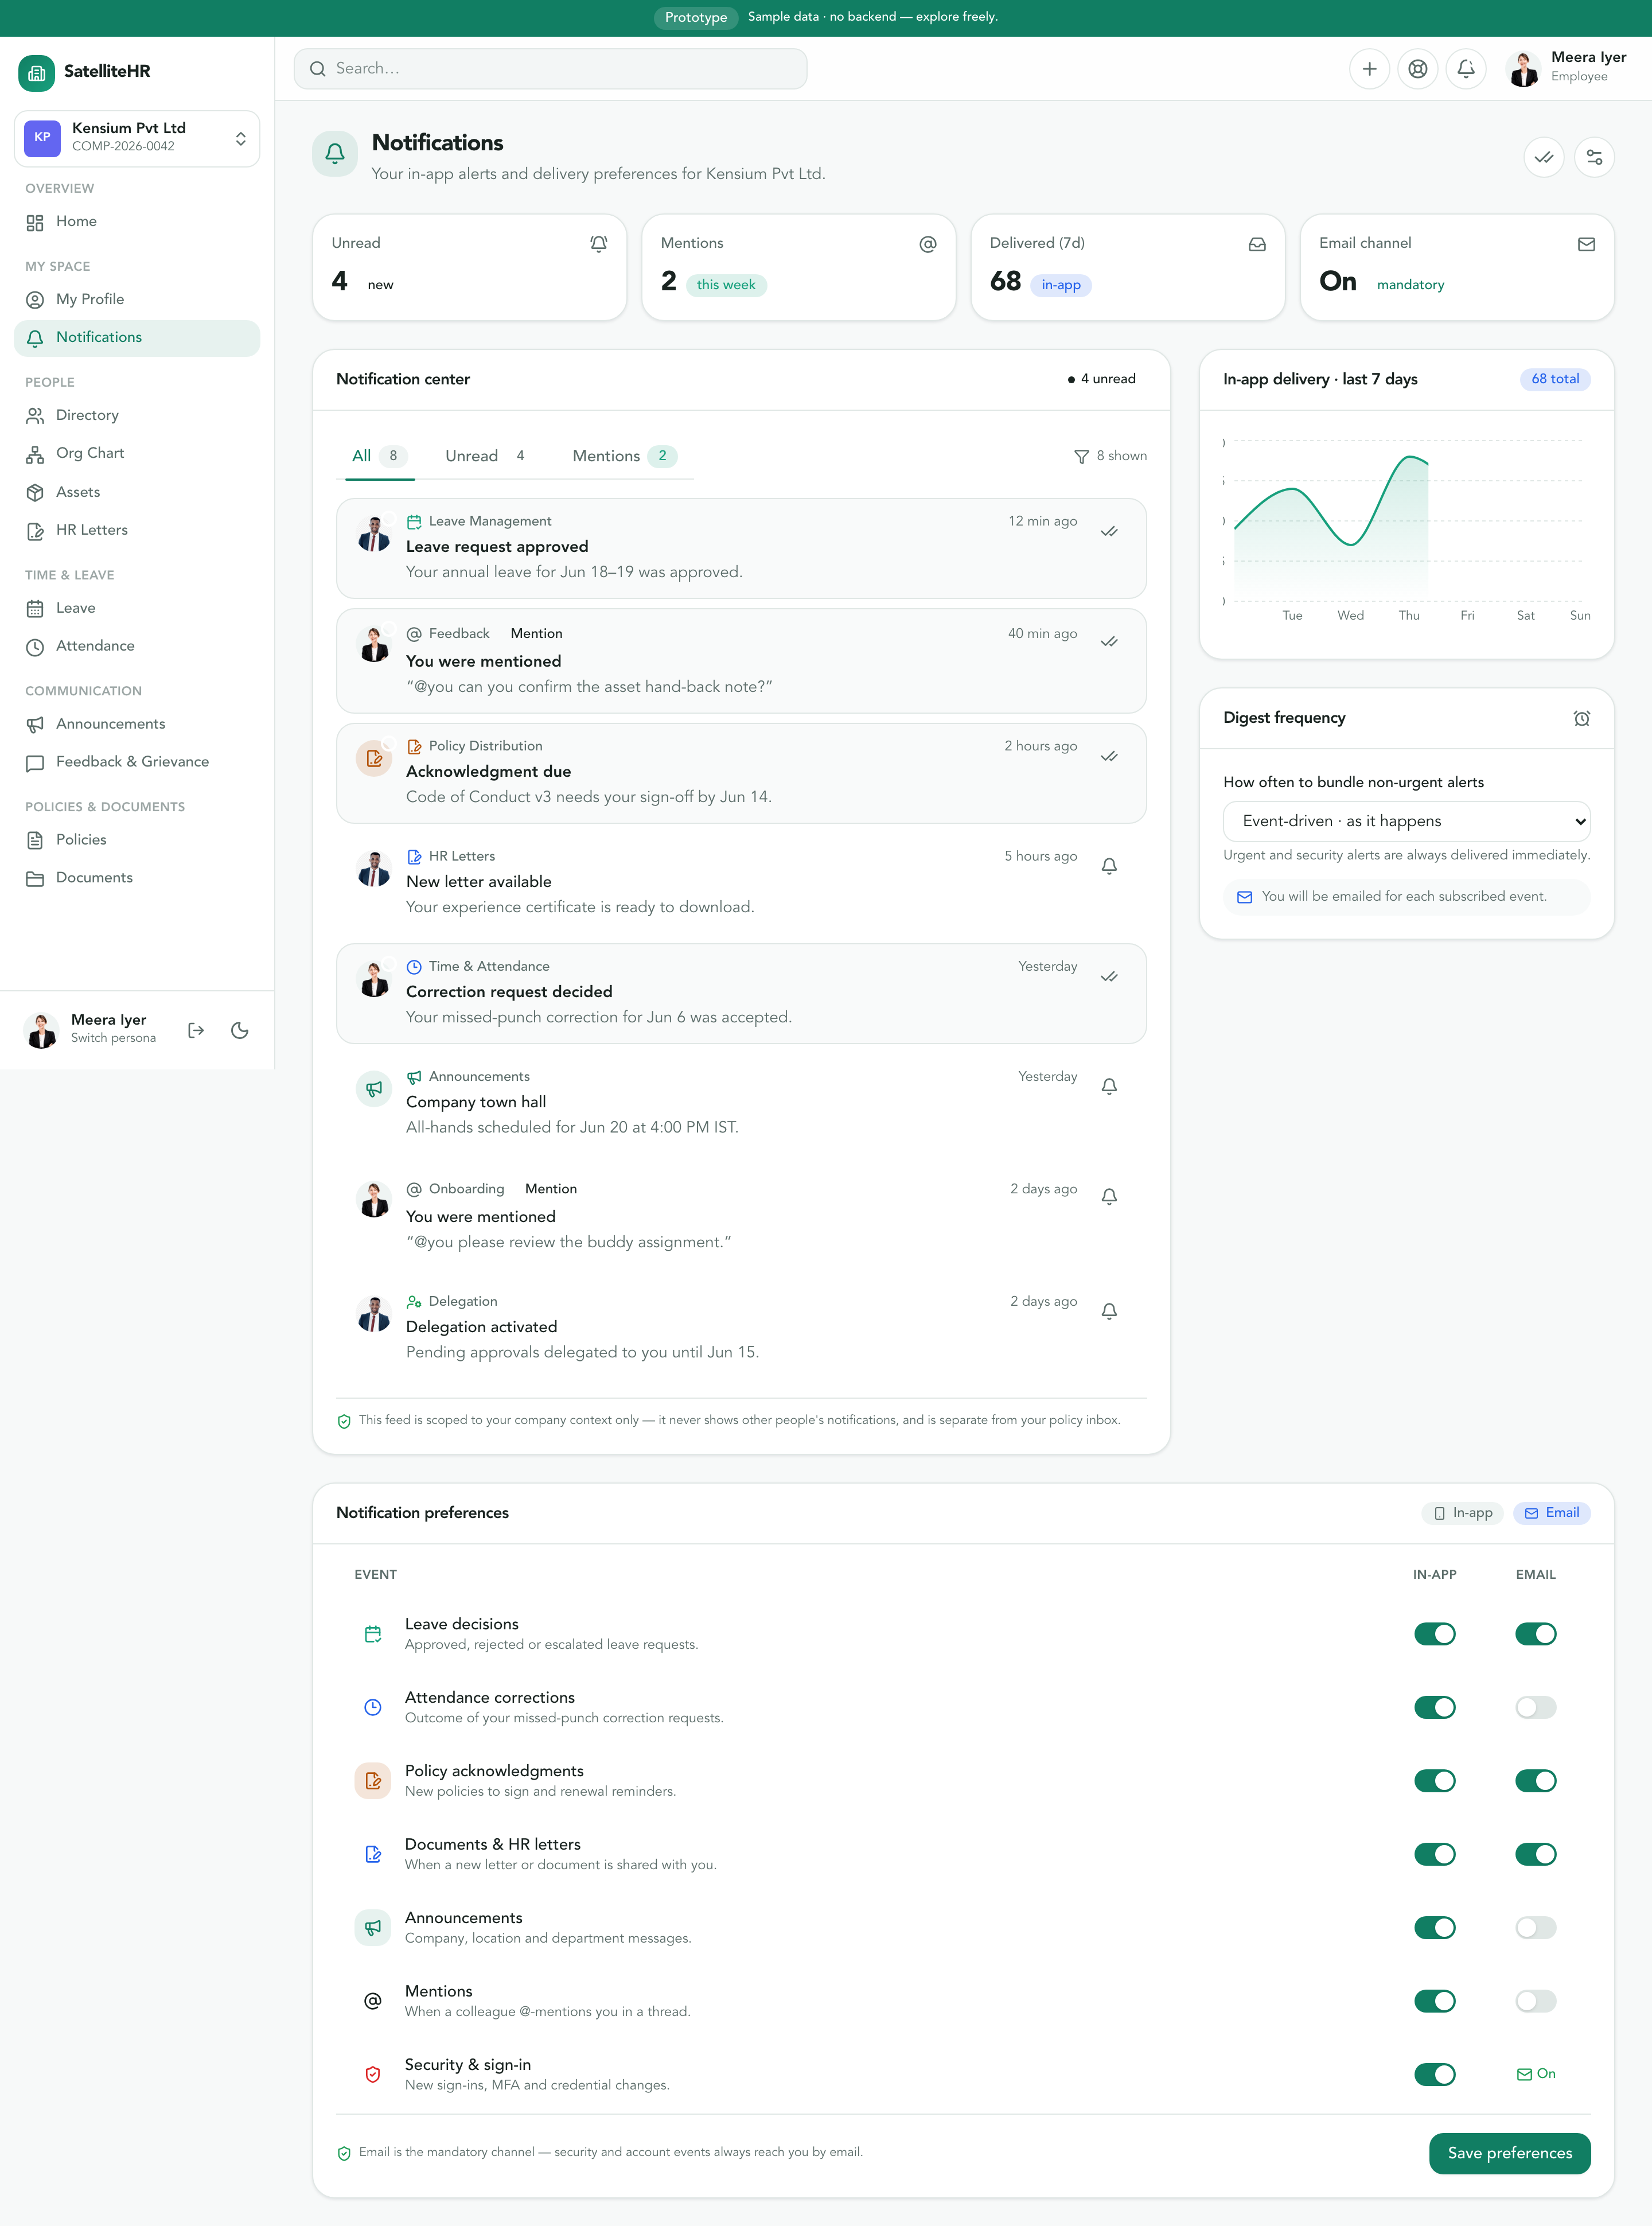
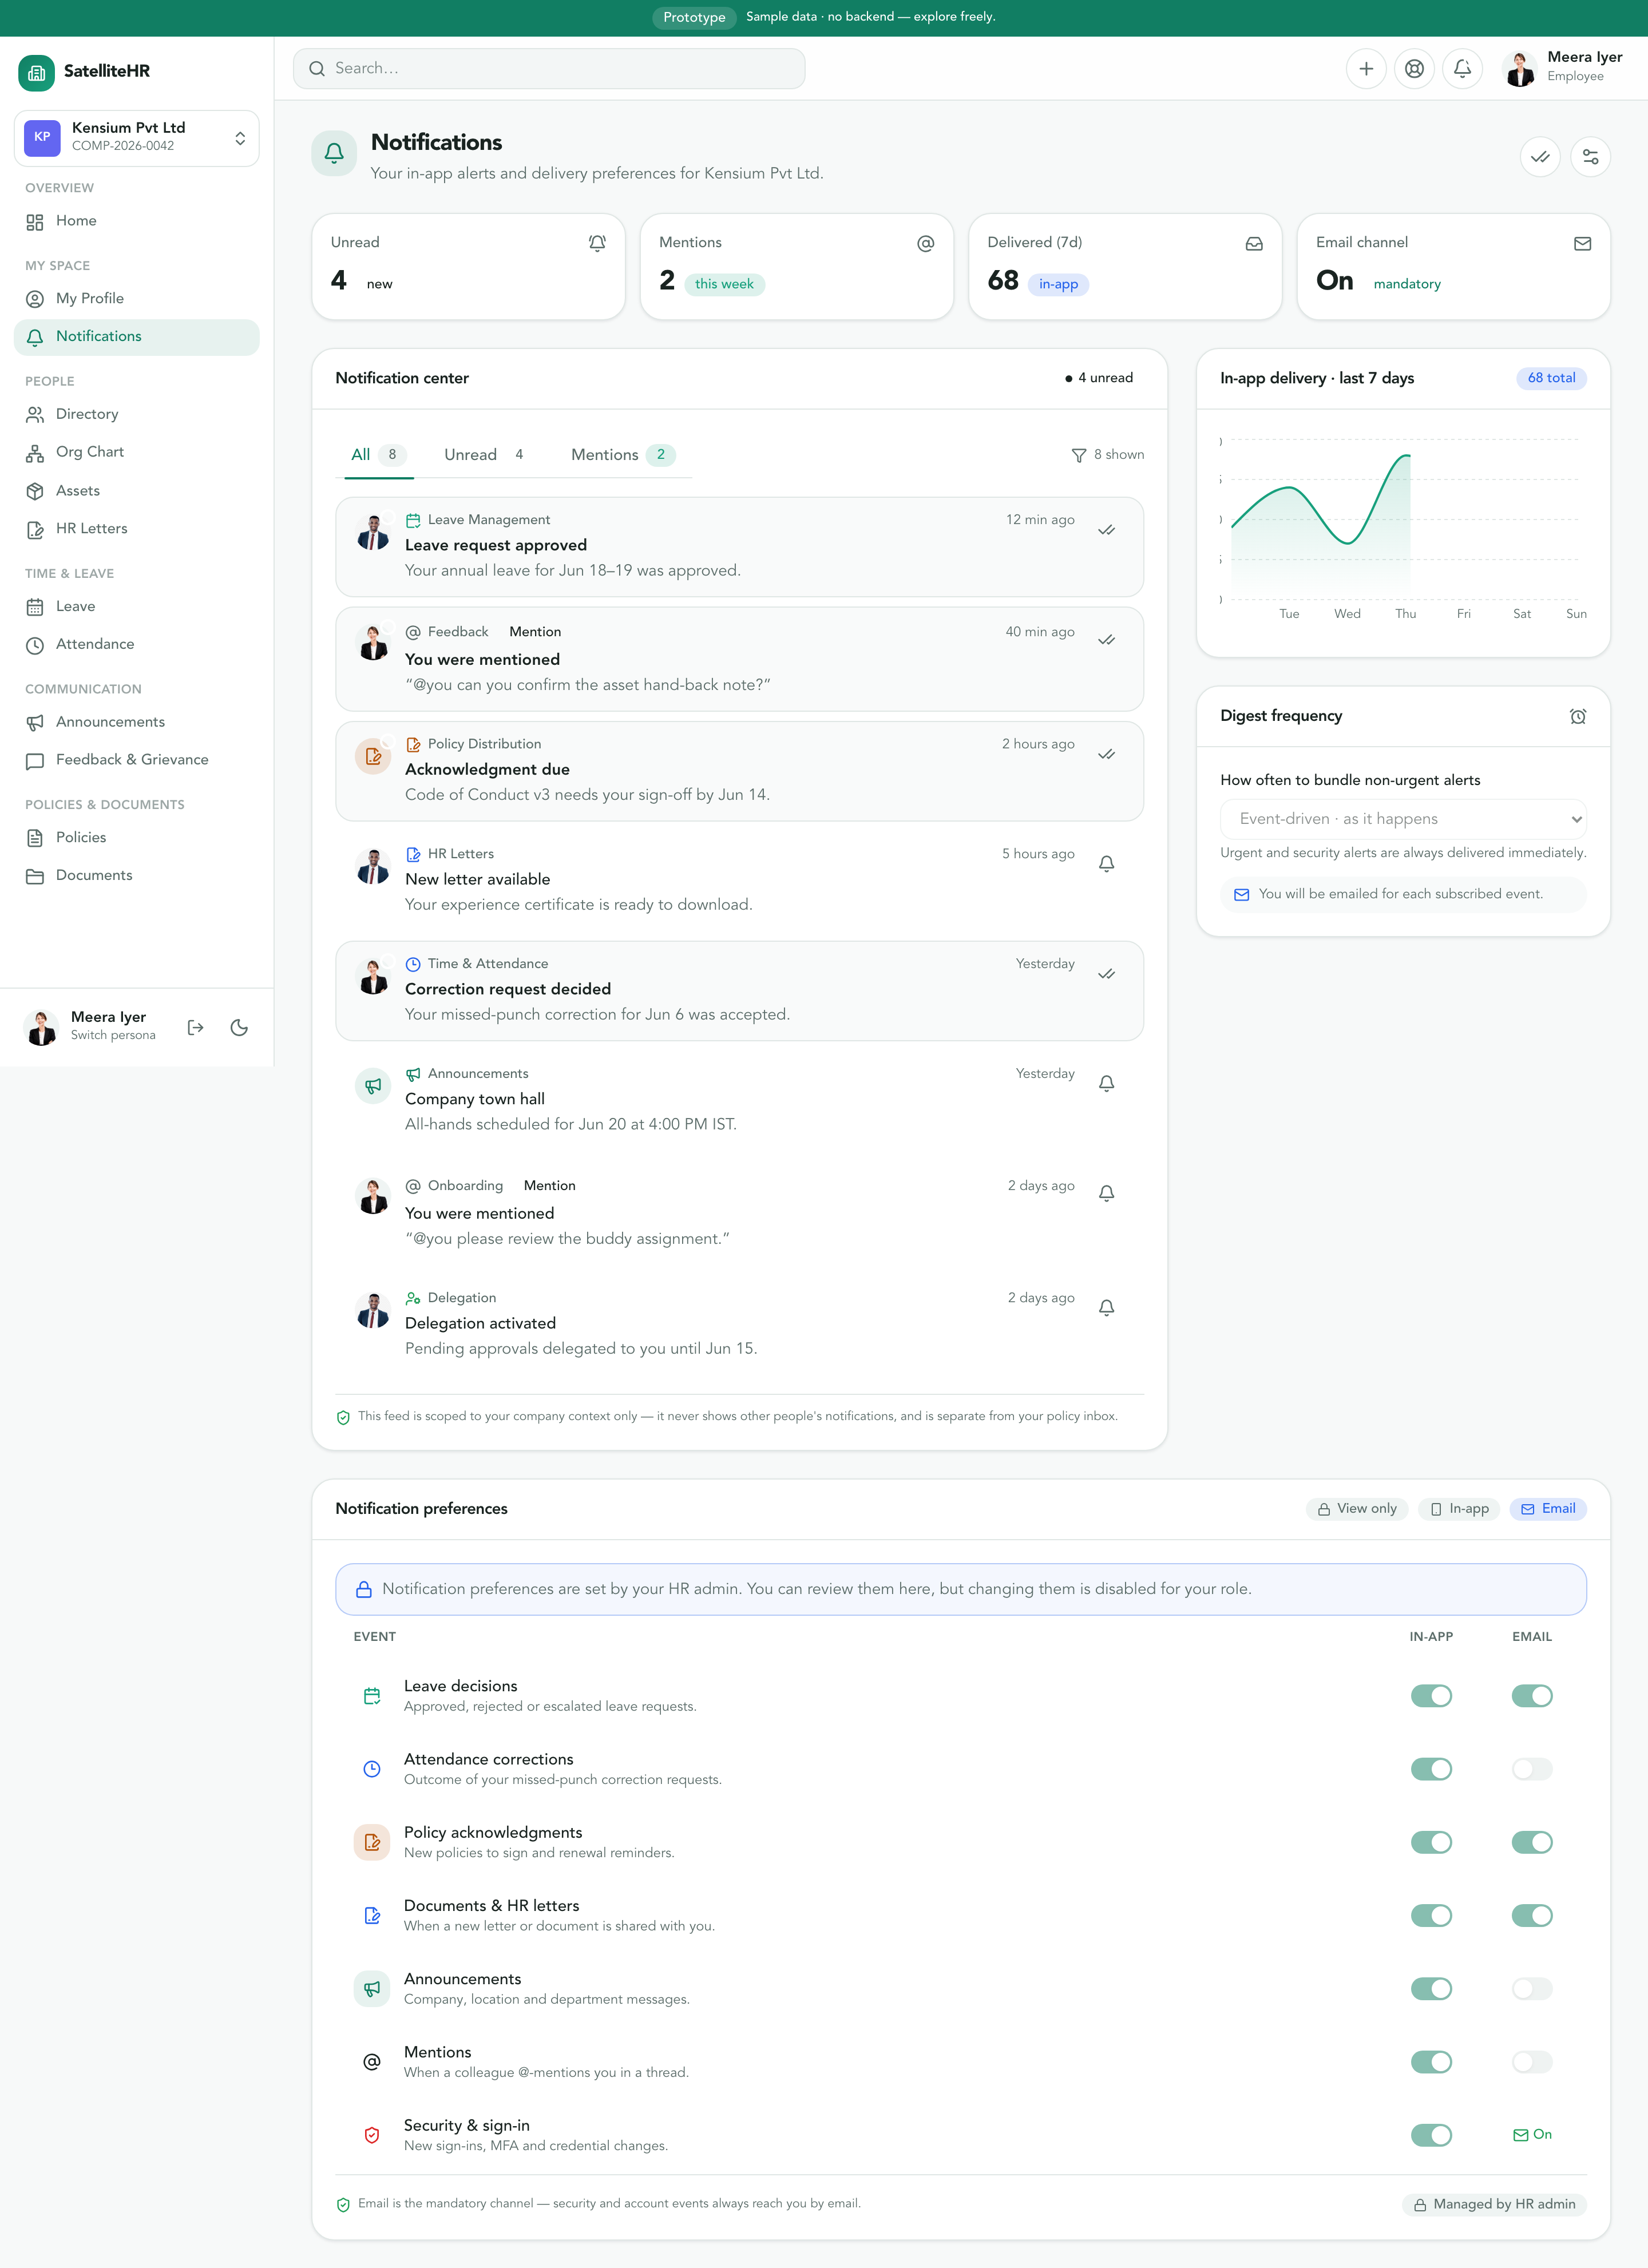
Gate notification preferences via RBAC (admins only)
Employees can view the Notifications page but no longer change preferences —
now driven by the dynamic RBAC, not a hardcoded role check.

- rbac: new 'notifications.manage' action (Governance), granted by default to
  Super Admin, Company HR Admin, Portfolio Manager, Company IT/Security; denied
  to People Manager, Employee, Group Reporting Viewer. Admins can re-grant it to
  any role from the Roles matrix.
- new useCan(action) hook + rbacRoleFor() mapping runtime persona role → RBAC role.
- Notifications: channel toggles + digest select disabled, Save replaced with
  "Managed by HR admin", "View only" badge + explainer banner when !canManage.
- ui Switch: supports disabled.

Build + eslint clean; employee screenshots refreshed.

diff --git a/app/src/app/rbac.tsx b/app/src/app/rbac.tsx
@@ -9,6 +9,7 @@
  * 'Platform Super Admin' is a locked superuser (can never lose access).
  */
 import { createContext, useContext, useMemo, useState, type ReactNode } from 'react'
+import { useApp } from './store'
 
 export type PermLevel = 'hidden' | 'read' | 'edit'
 export type FieldLevel = 'hidden' | 'masked' | 'visible'
@@ -70,6 +71,7 @@ export const ACTION_GROUPS: { label: string; items: { key: string; label: string
     { key: 'company.provision', label: 'Provision a company' }, { key: 'company.suspend', label: 'Suspend a company' },
     { key: 'policy.publish', label: 'Publish a policy' }, { key: 'role.assign', label: 'Assign roles' },
     { key: 'data.import', label: 'Import data' }, { key: 'report.export', label: 'Export reports' },
+    { key: 'notifications.manage', label: 'Manage notification settings' },
   ]},
 ]
 export const ALL_ACTIONS = ACTION_GROUPS.flatMap((g) => g.items)
@@ -91,7 +93,7 @@ const BUILTIN: Record<string, Def> = {
     level: 'Portfolio', users: 6, desc: 'Runs HR across authorized companies; context switching.',
     edit: ['portfolio', 'companies', 'shared_policies', 'org_data', 'employees', 'leave', 'attendance', 'requisitions', 'candidates', 'interviews', 'onboarding', 'performance', 'transfers_exit', 'announcements', 'feedback', 'policies', 'documents', 'letters', 'assets'],
     read: ['company_setup', 'roles', 'import_export', 'audit', 'directory', 'org_chart', 'reports', 'custom_fields', 'workflow_builder'],
-    actions: ['leave.approve', 'attendance.approve', 'employee.create', 'employee.edit', 'requisition.approve', 'offer.make', 'policy.publish', 'report.export', 'transfer.initiate'],
+    actions: ['leave.approve', 'attendance.approve', 'employee.create', 'employee.edit', 'requisition.approve', 'offer.make', 'policy.publish', 'report.export', 'transfer.initiate', 'notifications.manage'],
     fields: { 'employee.salary': 'masked', 'employee.bank': 'masked' },
   },
   'Group Reporting Viewer': {
@@ -104,13 +106,13 @@ const BUILTIN: Record<string, Def> = {
     level: 'Company', users: 11, desc: 'Owns people, policies & reports for one company.',
     edit: ['directory', 'org_chart', 'employees', 'assets', 'letters', 'leave', 'attendance', 'requisitions', 'candidates', 'interviews', 'onboarding', 'performance', 'transfers_exit', 'announcements', 'feedback', 'policies', 'documents', 'org_data', 'custom_fields', 'workflow_builder'],
     read: ['reports', 'audit', 'roles', 'shared_policies'],
-    actions: ['leave.approve', 'attendance.approve', 'probation.confirm', 'employee.create', 'employee.edit', 'transfer.initiate', 'exit.run', 'requisition.approve', 'offer.make', 'policy.publish', 'report.export'],
+    actions: ['leave.approve', 'attendance.approve', 'probation.confirm', 'employee.create', 'employee.edit', 'transfer.initiate', 'exit.run', 'requisition.approve', 'offer.make', 'policy.publish', 'report.export', 'notifications.manage'],
   },
   'Company IT / Security': {
     level: 'Company', users: 5, desc: 'User-role assignment, SSO, access audits.',
     edit: ['roles', 'audit', 'import_export'],
     read: ['directory', 'org_chart', 'employees', 'company_setup', 'custom_fields'],
-    actions: ['role.assign', 'data.import'],
+    actions: ['role.assign', 'data.import', 'notifications.manage'],
     fields: { 'employee.salary': 'hidden', 'employee.pan': 'masked', 'employee.aadhaar': 'masked', 'employee.bank': 'hidden' },
   },
   'People Manager': {
@@ -236,4 +238,23 @@ export function useRbac() {
   const ctx = useContext(Ctx)
   if (!ctx) throw new Error('useRbac must be used within RbacProvider')
   return ctx
+}
+
+// Map the runtime persona role → the RBAC role profile it resolves to.
+const RUNTIME_TO_RBAC: Record<string, string> = {
+  provider_admin: ADMIN_ROLE,
+  portfolio_manager: 'Portfolio Manager',
+  company_hr_admin: 'Company HR Admin',
+  people_manager: 'People Manager',
+  employee: 'Employee — Standard',
+}
+export function rbacRoleFor(role: string): string {
+  return RUNTIME_TO_RBAC[role] ?? 'Employee — Standard'
+}
+
+/** Can the currently logged-in persona perform an RBAC action? Honors live policy edits. */
+export function useCan(action: string): boolean {
+  const { role } = useApp()
+  const { effAction } = useRbac()
+  return effAction(rbacRoleFor(role ?? 'employee'), action)
 }

diff --git a/app/src/pages/Notifications.tsx b/app/src/pages/Notifications.tsx
@@ -2,13 +2,14 @@ import { useMemo, useState } from 'react'
 import {
   Bell, BellRing, CheckCheck, Settings2, Filter, AtSign, Inbox, Mail,
   Smartphone, CalendarCheck2, FileSignature, ShieldCheck, Megaphone, Clock3,
-  UserCog, RefreshCw, AlarmClock, type LucideIcon,
+  UserCog, RefreshCw, AlarmClock, Lock, type LucideIcon,
 } from 'lucide-react'
 import {
   Area, AreaChart, CartesianGrid, ResponsiveContainer, Tooltip as RTooltip, XAxis, YAxis,
 } from 'recharts'
 import { useApp } from '../app/store'
 import { useNotifications, type Notif } from '../app/notifications'
+import { useCan } from '../app/rbac'
 import { useCompanyData } from '../data/companyData'
 import {
   Avatar, Badge, Button, Card, CardBody, CardHeader, CardTitle, EmptyState, Field,
@@ -157,6 +158,8 @@ export default function Notifications() {
   const { push } = useToast()
 
   const isAdmin = role === 'company_hr_admin' || role === 'provider_admin' || role === 'portfolio_manager'
+  // Preferences are company-controlled — gated by RBAC, not a hardcoded role.
+  const canManage = useCan('notifications.manage')
 
   // Shared store — read state is in sync with the top-bar bell.
   const { feed, unreadCount, mentionCount, toggleRead, markAllRead } = useNotifications()
@@ -314,7 +317,7 @@ export default function Notifications() {
             </CardHeader>
             <CardBody className="space-y-3">
               <Field label="How often to bundle non-urgent alerts" hint="Urgent and security alerts are always delivered immediately.">
-                <Select value={digest} onChange={(e) => setDigest(e.target.value as Digest)}>
+                <Select value={digest} onChange={(e) => setDigest(e.target.value as Digest)} disabled={!canManage}>
                   <option value="event">Event-driven · as it happens</option>
                   <option value="daily">Daily digest · one summary email</option>
                   <option value="weekly">Weekly digest · Monday morning</option>
@@ -338,11 +341,18 @@ export default function Notifications() {
         <CardHeader>
           <CardTitle>Notification preferences</CardTitle>
           <div className="flex items-center gap-2">
+            {!canManage && <Badge tone="neutral"><Lock className="h-3 w-3" /> View only</Badge>}
             <Badge tone="neutral"><Smartphone className="h-3 w-3" /> In-app</Badge>
             <Badge tone="info"><Mail className="h-3 w-3" /> Email</Badge>
           </div>
         </CardHeader>
         <CardBody className="space-y-1">
+          {!canManage && (
+            <div className="mb-3 flex items-start gap-2 rounded-xl border border-info/30 bg-info/5 px-4 py-3 text-sm text-muted-fg">
+              <Lock className="mt-0.5 h-4 w-4 shrink-0 text-info" />
+              <p>Notification preferences are set by your HR admin. You can review them here, but changing them is disabled for your role.</p>
+            </div>
+          )}
           <div className="hidden grid-cols-[1fr_auto_auto] items-center gap-6 px-4 pb-2 text-2xs font-bold uppercase tracking-wide text-muted-fg sm:grid">
             <span>Event</span>
             <span className="w-16 text-center">In-app</span>
@@ -367,7 +377,7 @@ export default function Notifications() {
                 </div>
                 <div className="flex items-center gap-2 pl-11 sm:w-16 sm:justify-center sm:pl-0">
                   <span className="text-xs text-muted-fg sm:hidden">In-app</span>
-                  <Switch checked={r.inapp} onChange={(v) => setChannel(r.id, 'inapp', v)} />
+                  <Switch checked={r.inapp} onChange={(v) => setChannel(r.id, 'inapp', v)} disabled={!canManage} />
                 </div>
                 <div className="flex items-center gap-2 pl-11 sm:w-16 sm:justify-center sm:pl-0">
                   <span className="text-xs text-muted-fg sm:hidden">Email</span>
@@ -378,7 +388,7 @@ export default function Notifications() {
                       </span>
                     </Tooltip>
                   ) : (
-                    <Switch checked={r.email} onChange={(v) => setChannel(r.id, 'email', v)} />
+                    <Switch checked={r.email} onChange={(v) => setChannel(r.id, 'email', v)} disabled={!canManage} />
                   )}
                 </div>
               </div>
@@ -390,7 +400,11 @@ export default function Notifications() {
               <ShieldCheck className="h-3.5 w-3.5 text-success" />
               Email is the mandatory channel — security and account events always reach you by email.
             </p>
-            <Button onClick={savePrefs}>Save preferences</Button>
+            {canManage ? (
+              <Button onClick={savePrefs}>Save preferences</Button>
+            ) : (
+              <Badge tone="neutral"><Lock className="h-3 w-3" /> Managed by HR admin</Badge>
+            )}
           </div>
         </CardBody>
       </Card>

diff --git a/app/src/components/ui.tsx b/app/src/components/ui.tsx
@@ -304,18 +304,21 @@ export function Switch({
   checked,
   onChange,
   label,
+  disabled,
 }: {
   checked: boolean
   onChange: (v: boolean) => void
   label?: string
+  disabled?: boolean
 }) {
   return (
     <button
       type="button"
       role="switch"
       aria-checked={checked}
-      onClick={() => onChange(!checked)}
-      className="inline-flex items-center gap-2.5 cursor-pointer"
+      disabled={disabled}
+      onClick={() => !disabled && onChange(!checked)}
+      className={cn('inline-flex items-center gap-2.5', disabled ? 'cursor-not-allowed opacity-50' : 'cursor-pointer')}
     >
       <span
         className={cn(